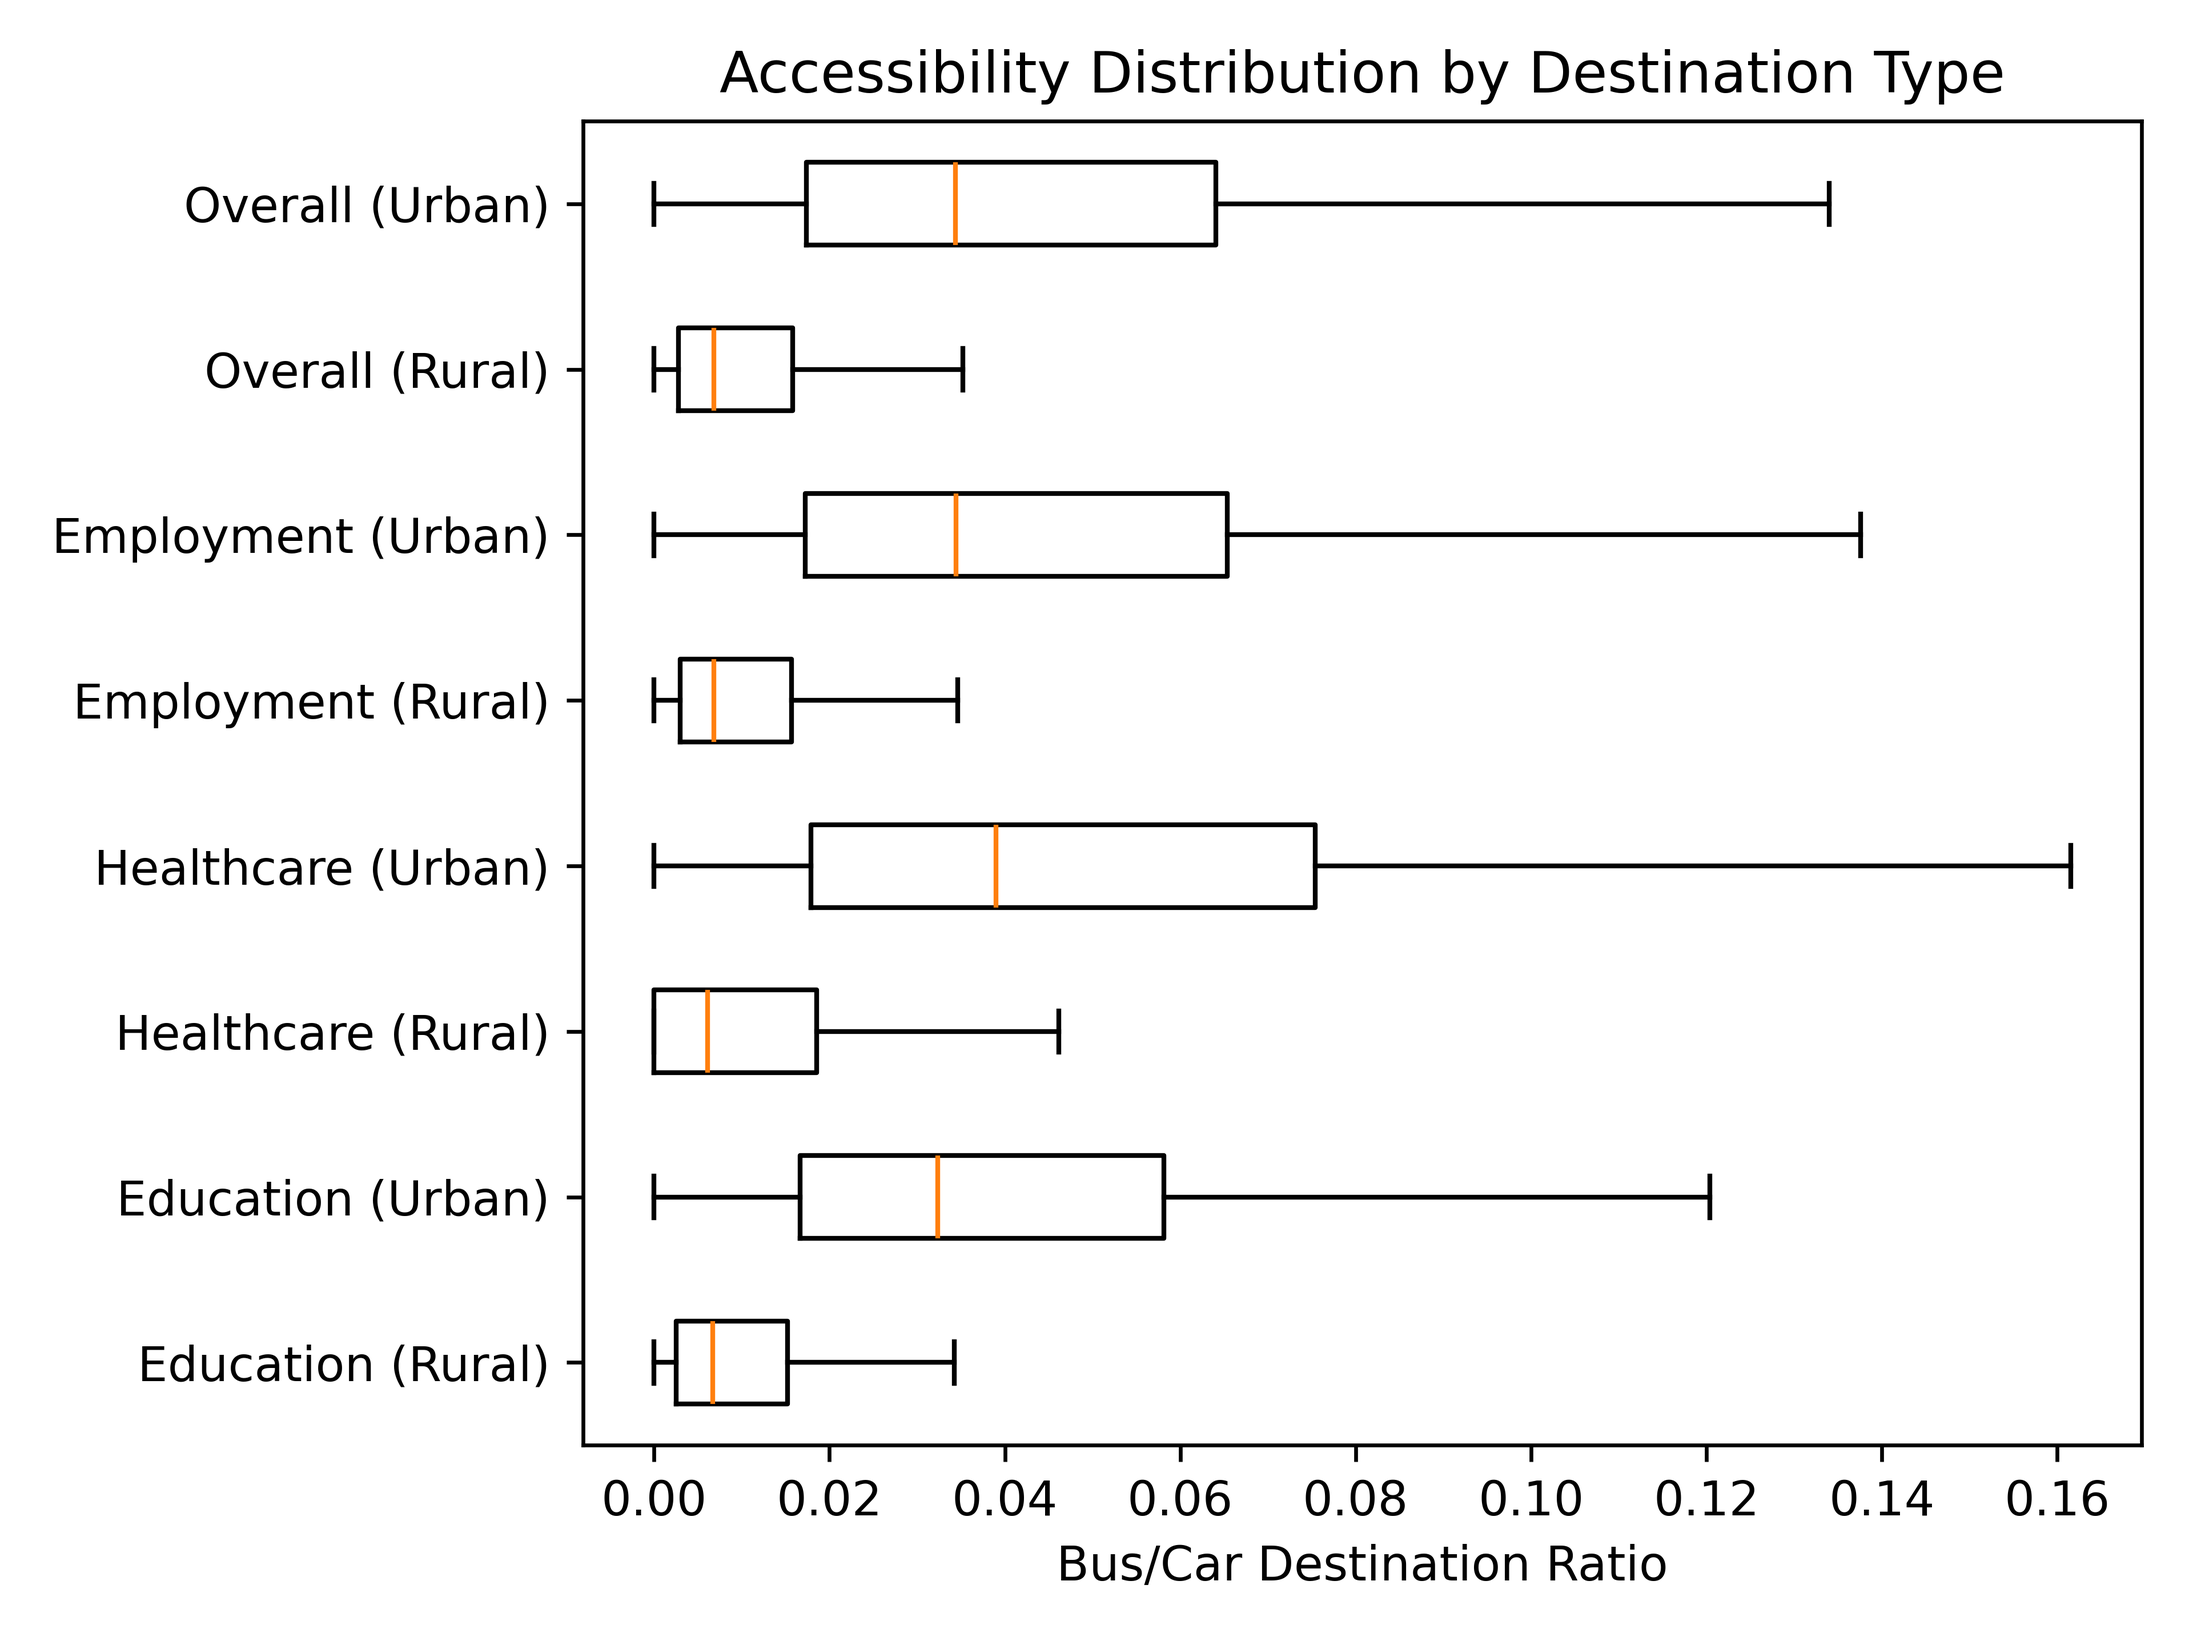
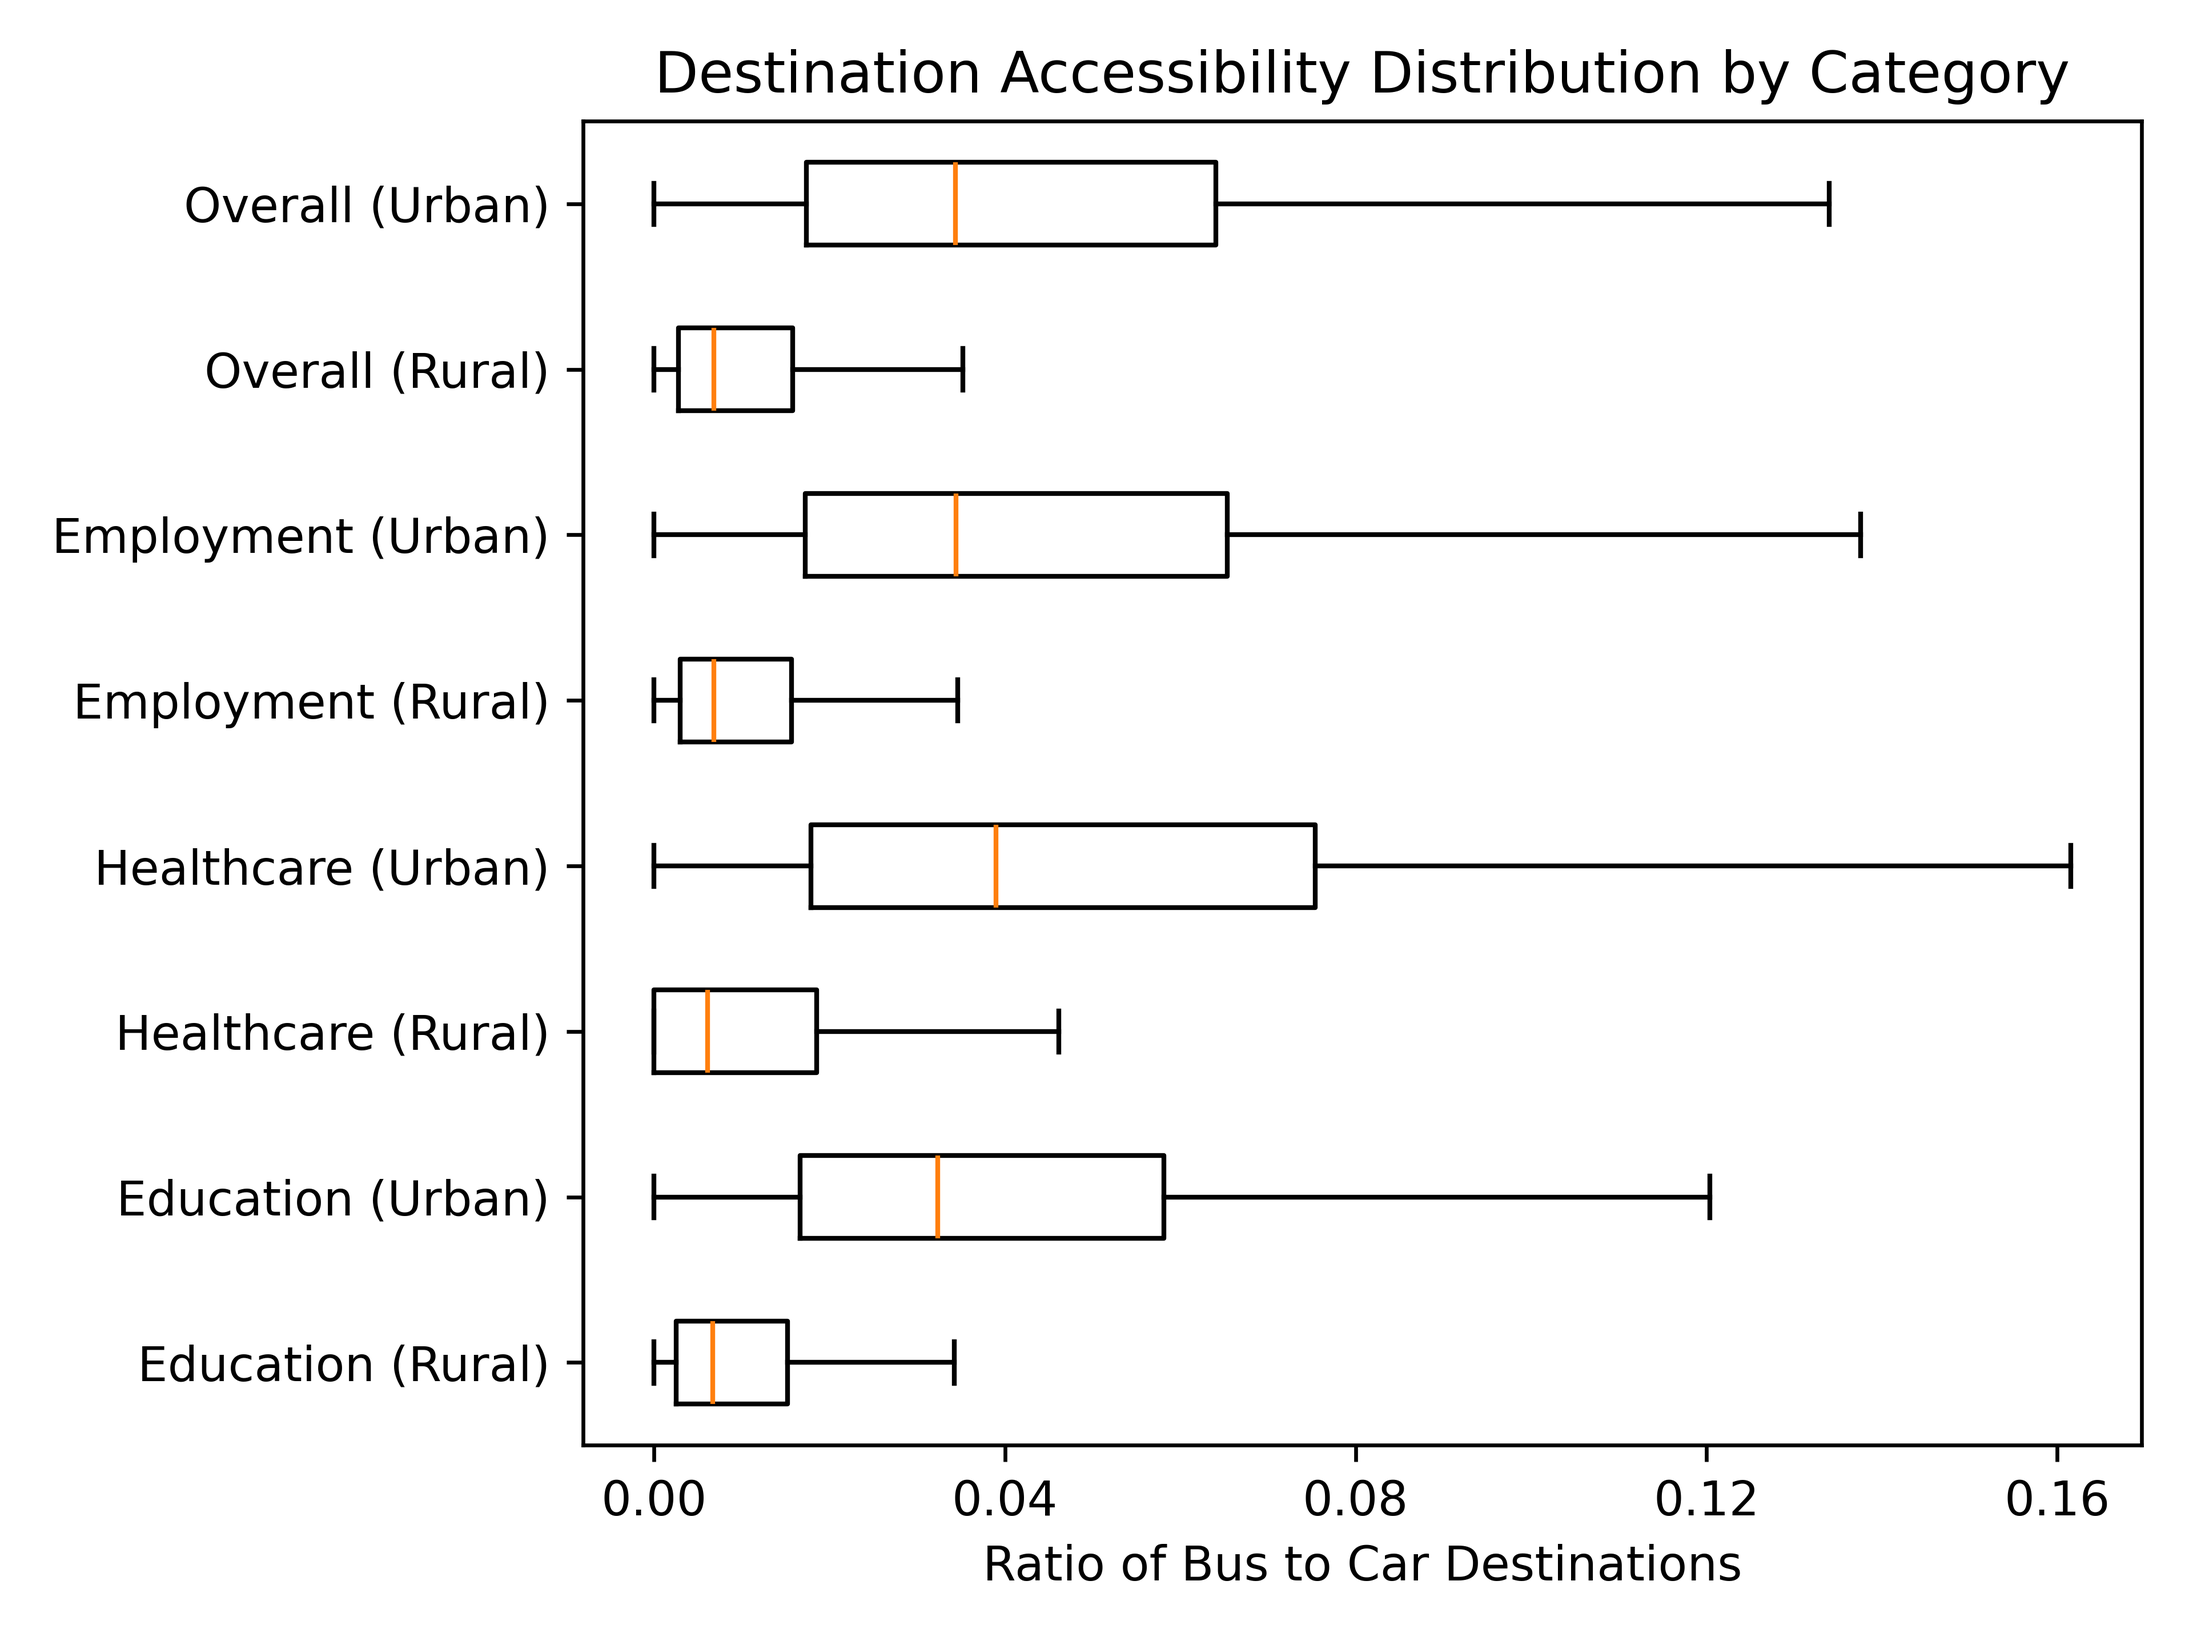
Improvements to destinations boxplot

diff --git a/plotting/destinations_boxplot.py b/plotting/destinations_boxplot.py
@@ -1,5 +1,6 @@
 import pandas as pd
 import matplotlib.pyplot as plt
+from matplotlib.ticker import MaxNLocator
 from common.data import OUT_DIR, load_dataset, Datasets
 
 # Load LSOA boundaries
@@ -13,18 +14,22 @@ destinations = lsoas.merge(destinations, on="id")
 urban = destinations[destinations['ruc'].isin(["UN1", "UF1"])]
 rural = destinations[destinations['ruc'].isin(["RSN1", "RLN1", "RLF1", "RSF1"])]
 
+# Create plot
+_, ax = plt.subplots()
+ax.set_title("Destination Accessibility Distribution by Category")
+
 # Create a stacked vertical plot of each type of ratio
-plt.boxplot([rural['education_ratio'], urban['education_ratio'], rural['healthcare_ratio'], urban['healthcare_ratio'], 
+ax.boxplot([rural['education_ratio'], urban['education_ratio'], rural['healthcare_ratio'], urban['healthcare_ratio'], 
              rural['employment_ratio'], urban['employment_ratio'], rural['ratio'], urban['ratio']],
              orientation="horizontal",
              showfliers=False,
              tick_labels=["Education (Rural)", "Education (Urban)", "Healthcare (Rural)", "Healthcare (Urban)", 
                           "Employment (Rural)", "Employment (Urban)", "Overall (Rural)", "Overall (Urban)"])
 
-# Add title
-plt.title("Accessibility Distribution by Destination Type")
-plt.xlabel("Bus/Car Destination Ratio")
-plt.tight_layout()
+# Set max 5 ticks on x-axis
+ax.xaxis.set_major_locator(MaxNLocator(nbins=5))
+ax.set_xlabel("Ratio of Bus to Car Destinations")
 
 # Save to png
+plt.tight_layout()
 plt.savefig(OUT_DIR / "plots" / "destinations_boxplot.png", dpi=600)
